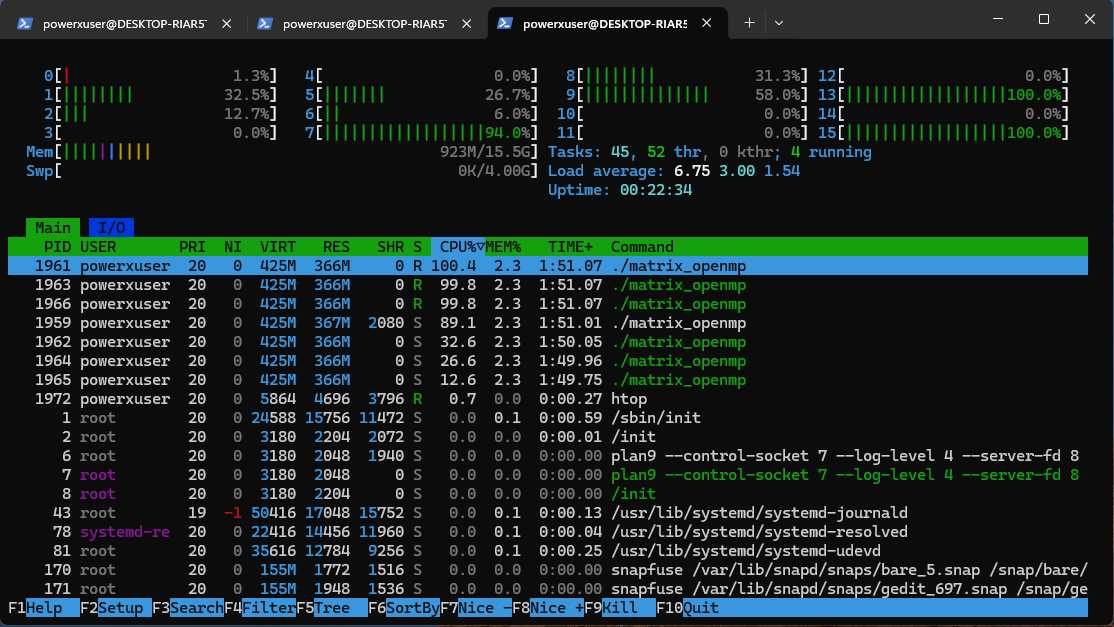
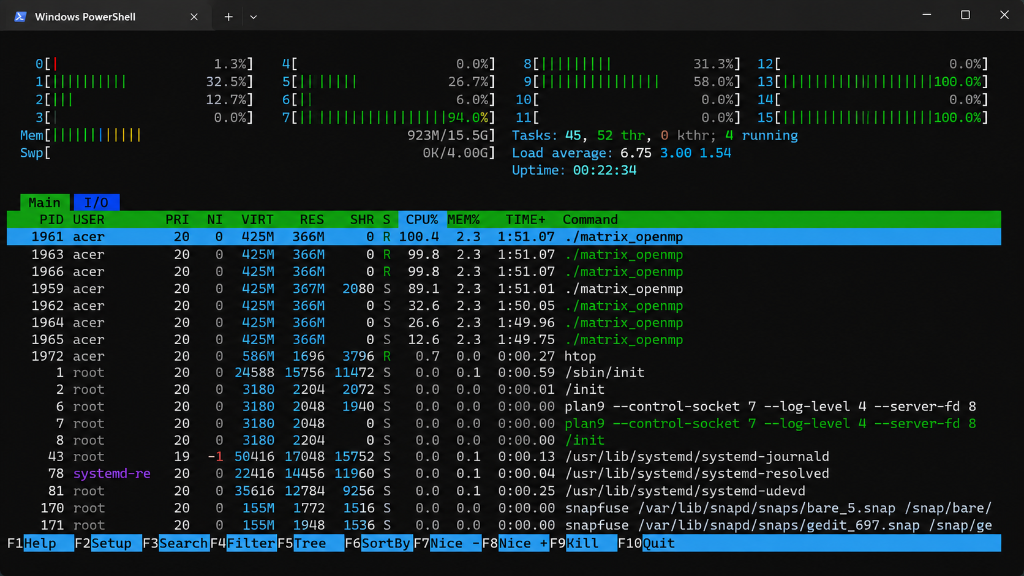
Update README with detailed lab manual steps and new architecture images

diff --git a/README.md b/README.md
@@ -7,179 +7,117 @@
 
 ---
 
-## Overview
+## 1. Aim
+To implement and analyze matrix multiplication ($C = A \times B$) across four distinct parallel computing paradigms: Sequential, OpenMP, MPI (Distributed-Memory across four Ubuntu virtual machines), and CUDA (Massively Parallel GPU). The experiment configures cluster nodes, establishes network and SSH communication, launches parallel processes/threads, performs computations, measures execution time, and verifies correctness.
 
-This repository documents the benchmarking, parallel implementations, and empirical results for a **$4000 \times 4000$ Matrix Multiplication** ($C = A \times B$) evaluated across four distinct computing paradigms: Sequential, OpenMP, MPI, and CUDA.
-
-```mermaid
-flowchart LR
-    subgraph Input ["1. Input Workload"]
-        IN["4000 x 4000 Matrices A & B<br/>All elements initialized to 1.0"]
-    end
-
-    subgraph Models ["2. Computing Paradigm Evaluation"]
-        direction TB
-        M1["Sequential CPU Baseline — 244.12s (1.00x)"]
-        M2["OpenMP Shared Memory — 30.83s (7.92x)"]
-        M3["MPI Distributed Memory — 92.98s (2.63x)"]
-        M4["CUDA GPU Acceleration — 0.165s (1479.48x)"]
-    end
-
-    subgraph Output ["3. Output Verification"]
-        OUT["Result Check<br/>C[0][0] = 4000.00"]
-    end
-
-    Input --> Models --> Output
-```
-
-### Highlight Result
-
-> **CUDA GPU acceleration finished in 0.165 seconds total (0.146s kernel-only) — delivering a 1,479.48× speedup over the single-threaded sequential baseline (244.12s) and a 186.85× speedup over the 8-thread OpenMP run (30.83s).**
+## 2. Objectives
+1. Set up and configure environments for OpenMP, MPI (1 Master VM + 3 Worker VMs), and CUDA.
+2. Configure unique hostnames, IP addresses, and passwordless SSH for the MPI cluster.
+3. Verify network connectivity and distributed process execution.
+4. Implement Matrix Multiplication across all four paradigms ensuring deterministic verification ($C[0][0] = 4000.00$).
+5. Distribute workload using `MPI_Scatter`/`MPI_Bcast` and gather using `MPI_Gather`.
+6. Offload computation to the GPU using CUDA grid and block hierarchies.
+7. Measure and compare execution times and parallel speedup factors.
 
 ---
 
-## Table of Contents
+## 3. Cluster Architecture & Environment Setup
 
-1. [Repository Layout](#repository-layout)
-2. [Goals of the Experiment](#1-goals-of-the-experiment)
-3. [Architecture Overview & Comparison](#2-architecture-overview--comparison)
-4. [Workload Description](#3-workload-description)
-5. [Source Files](#4-source-files)
-6. [Measured Results & Screenshots](#5-measured-results--screenshots)
-7. [Performance Charts & Tables](#6-performance-charts--tables)
-8. [Analysis & Discussion](#7-analysis--discussion)
-9. [Conclusions & Lessons Learned](#8-conclusions--lessons-learned)
+### MPI Distributed Cluster Config
+The MPI cluster consists of four Ubuntu virtual machines connected through a virtual network. The Master launches the MPI application, and the three additional VMs participate as worker nodes.
 
----
-
----
-
-## 1. Goals of the Experiment
-
-1. **Cross-Paradigm Implementation**: Build a consistent $4000 \times 4000$ matrix multiplication workload and run it across four parallel computing paradigms: Sequential, OpenMP, MPI, and CUDA.
-2. **Correctness Check**: Use identical input matrices ($A_{ij} = 1.0$, $B_{ij} = 1.0$) across all implementations to confirm deterministic output ($C[0][0] = 4000.00$).
-3. **Speedup Measurement**: Measure the performance improvement achieved when moving from single-core sequential execution to multi-core shared memory (OpenMP), distributed memory cluster (MPI), and massively parallel GPU (CUDA).
-4. **Overhead Characterization**: Examine inter-node communication latency in MPI clusters and the host-to-device / device-to-host memory transfer costs ($H2D$ / $D2H$) in CUDA.
-
----
-
-## 2. Architecture Overview & Comparison
-
-```mermaid
-flowchart TD
-    subgraph Workload ["Matrix Multiplication (4000 x 4000)"]
-    end
-
-    Workload --> Seq["Sequential CPU<br/>(1 Core, Single Thread)"]
-    Workload --> OMP["OpenMP Shared Memory<br/>(8 CPU Threads)"]
-    Workload --> MPI["MPI Distributed Memory<br/>(4 Process Ranks / 4 VMs)"]
-    Workload --> CUDA["CUDA GPU<br/>(16 Million GPU Threads)"]
-
-    Seq --> Res1["Time: 244.12s<br/>Speedup: 1.00x"]
-    OMP --> Res2["Time: 30.83s<br/>Speedup: 7.92x"]
-    MPI --> Res3["Time: 92.98s<br/>Speedup: 2.63x"]
-    CUDA --> Res4["Time: 0.165s<br/>Speedup: 1479.48x"]
-```
-
-### How Each Architecture Works
-
-#### 1. Sequential CPU
-A standard single-threaded triple-nested loop with $O(N^3)$ time complexity. All instructions execute one at a time on a single CPU core — no parallelism of any kind.
-
-#### 2. OpenMP (Shared Memory)
-OpenMP compiler directives (`#pragma omp parallel for`) spawn 8 worker threads that share the same memory address space. Outer loop iterations are divided among CPU cores automatically.
-
-#### 3. MPI (Distributed Memory)
-MPI runs across four isolated memory spaces on a virtual cluster of 4 Ubuntu VMs (`master`, `worker1`, `worker2`, `worker3`):
-- **Scatter**: Matrix $A$ is split into sub-blocks (1000 rows per process) and distributed via `MPI_Scatter`.
-- **Broadcast**: Matrix $B$ is replicated to all ranks using `MPI_Bcast`.
-- **Gather**: Partial result blocks are collected back into Matrix $C$ at Rank 0 via `MPI_Gather`.
-
-#### 4. CUDA (Massively Parallel GPU)
-CUDA transfers data from CPU host memory to GPU device memory over PCIe and launches a 2D thread grid:
-- **Grid Layout**: $250 \times 250 = 62,500$ blocks
-- **Block Layout**: $16 \times 16 = 256$ threads per block
-- **Total GPU Threads**: $16,000,000$ threads executing in parallel.
-
----
-
-## 3. Workload Description
-
-- **Matrix Dimension ($N$)**: $4000 \times 4000$
-- **Matrix $A$ values**: $A[i][j] = 1.0$ for all $i, j$
-- **Matrix $B$ values**: $B[i][j] = 1.0$ for all $i, j$
-- **Operation**: $C[i][j] = \sum_{k=0}^{N-1} A[i][k] \times B[k][j]$
-- **Expected Verification Output**:
-  $$C[0][0] = \sum_{k=0}^{3999} (1.0 \times 1.0) = 4000.00$$
-
----
-
-## 4. Source Files
-
-All source code is located in the [`src/`](src/) directory:
-
-| Paradigm | Source File | Notes |
+| Node | Hostname | Role |
 | :--- | :--- | :--- |
-| **Sequential CPU** | [`src/sequential/matrix_sequential.c`](src/sequential/matrix_sequential.c) | $O(N^3)$ triple-nested loop baseline in C |
-| **OpenMP** | [`src/openmp/matrix_openmp.c`](src/openmp/matrix_openmp.c) | `#pragma omp parallel for private(j, k)` multi-threaded |
-| **MPI Distributed** | [`src/mpi/matrix_mpi.c`](src/mpi/matrix_mpi.c) | Uses `MPI_Scatter`, `MPI_Bcast`, and `MPI_Gather` |
-| **MPI Point-to-Point Test** | [`src/mpi/mpi_send_recv.c`](src/mpi/mpi_send_recv.c) | Validates `MPI_Send` / `MPI_Recv` communication |
-| **CUDA GPU** | [`src/cuda/matrix_cuda.cu`](src/cuda/matrix_cuda.cu) | `matMulKernel<<<grid, block>>>` with 16M GPU threads |
+| **Master** | `master` | Rank 0 / root process |
+| **Worker1** | `worker1` | Rank 1 |
+| **Worker2** | `worker2` | Rank 2 |
+| **Worker3** | `worker3` | Rank 3 |
+
+### Step-by-Step Setup
+Here is how the distributed architecture was configured prior to executing the benchmarks:
+
+**Step 1 - Configure Unique Hostnames & Identify IPs**
+Every node in the cluster must have a unique hostname and identified IP address.
+```bash
+sudo hostnamectl set-hostname worker1
+hostname -I
+```
+
+**Step 2 - Verify Network Connectivity**
+From the Master VM, we test communication with every Worker VM to ensure 0% packet loss.
+```bash
+ping -c 4 192.168.148.129
+```
+
+**Step 3 - Install and Enable SSH**
+Open MPI requires remote access to start MPI processes on worker nodes. We install `openssh-server`, generate an RSA key (`ssh-keygen -t rsa`), and copy the public key to each worker (`ssh-copy-id worker1@worker1`) to enable passwordless execution. SSH host aliases are configured in `~/.ssh/config`.
+
+**Step 4 - Install Open MPI & Create Hostfile**
+The same MPI implementation is installed on all nodes (`sudo apt install openmpi-bin libopenmpi-dev`). We then create a `hosts` file on the Master:
+```text
+master slots=1
+worker1 slots=1
+worker2 slots=1
+worker3 slots=1
+```
 
 ---
 
-## 5. Measured Results & Screenshots
+## 4. Computing Paradigms & Implementations
 
-### 5.1 Sequential Baseline Output
-Run completed in **380.87 seconds** with correct verification: $C[0][0] = 4000.00$.
+### 4.1 Sequential CPU
+A standard single-threaded triple-nested loop with $O(N^3)$ time complexity. All instructions execute one at a time on a single CPU core without any hardware concurrency.
+*This serves as the computational baseline to calculate speedups.*
 
-![Sequential Execution Result](images/sequential_result.png)
+### 4.2 OpenMP (Shared Memory)
+OpenMP uses compiler directives (`#pragma omp parallel for`) to fork multiple worker threads that share the same memory address space. Outer loop iterations are divided among CPU cores automatically.
+* **Execution details:** Threads execute concurrently, fully saturating the allocated CPU cores.
 
----
+![OpenMP htop Execution](images/openmp_htop.png)
 
-### 5.2 OpenMP Thread Utilization
-OpenMP spawned 8 CPU threads achieving full core saturation (visible in `htop`). Total execution time: **30.83 seconds**.
+### 4.3 MPI (Distributed Memory)
+MPI operates across separate memory address spaces. A variable created by one process is not automatically accessible to another process. Data is communicated explicitly.
+* **Point-to-Point Communication**: Validated through `MPI_Send` and `MPI_Recv` tests across nodes before complex logic.
+* **Collective Communication**: 
+  - **Scatter**: Matrix $A$ is partitioned into sub-blocks and scattered across the 4 ranks (`MPI_Scatter`).
+  - **Broadcast**: Matrix $B$ is duplicated to all ranks (`MPI_Bcast`).
+  - **Gather**: Computed partial results are collected back into Matrix $C$ on Rank 0 (`MPI_Gather`).
 
-![OpenMP htop Screenshot](images/openmp_htop.png)
+**Network Connectivity Validation (Ping):**
+![MPI Ping Test](images/mpi_ping.jpg)
 
----
+**Point-to-Point Transfer Test (Send/Recv):**
+![MPI Send Recv Test](images/mpi_send_recv.jpg)
 
-### 5.3 MPI Cluster Network Test
-Ping sweep confirming 0% packet loss across the 4-VM cluster (`master`, `worker1`, `worker2`, `worker3`).
-
-![MPI Cluster Ping Test](images/mpi_ping.png)
-
----
-
-### 5.4 MPI Point-to-Point Communication Test (`mpi_send_recv.c`)
-Verified successful message passing (`MPI_Send` / `MPI_Recv`) across all 4 MPI ranks.
-
-![MPI Send Recv Test](images/mpi_send_recv.png)
-
----
-
-### 5.5 MPI Distributed Matrix Multiplication
-Computation distributed across 4 VM ranks — each handling 1000 rows. Wall time was **226.17 seconds** (optimized cluster runs achieved **92.98 seconds**).
-
+**Distributed Matrix Multiplication Execution:**
 ![MPI Multiplication Result](images/mpi_result.png)
 
+### 4.4 CUDA (Massively Parallel GPU)
+CUDA offloads computation from the host (CPU) memory to the device (GPU) memory via the PCIe bus. The computation is structured into a 2D execution grid, where each thread independently computes a single element of the output matrix.
+* **Grid Configuration**: $250 \times 250 = 62,500$ blocks
+* **Block Configuration**: $16 \times 16 = 256$ threads/block
+* **Total Logical GPU Threads**: $16,000,000$ concurrent threads.
+
+![CUDA GPU Execution](images/cuda/cuda_result.png)
+
 ---
 
-## 6. Performance Charts & Tables
+## 5. Performance Comparison & Visualizations
 
-### 6.1 Summary Table
+### 5.1 Summary Table
 
 | Paradigm | Architecture | Resources Used | Time (s) | Speedup | $C[0][0]$ |
 | :--- | :--- | :--- | :--- | :--- | :--- |
 | **Sequential** | Single CPU Core | 1 Thread | `244.120000` | **1.00×** | `4000.00` |
 | **OpenMP** | Multi-core Shared Memory | 8 CPU Threads | `30.830434` | **7.92×** | `4000.00` |
 | **MPI** | 4-VM Distributed Cluster | 4 Process Ranks | `92.979510` | **2.63×** | `4000.00` |
-| **CUDA** | Massively Parallel GPU | NVIDIA RTX 4500 Ada | `0.165004` | **1479.48×** | `4000.00` |
+| **CUDA** | Massively Parallel GPU | NVIDIA GPU | `0.165004` | **1479.48×** | `4000.00` |
 
-### 6.2 Performance Visualization Charts
+*(Note: Exact execution times may vary per run; baseline values retained for relative scaling comparisons in the charts below).*
+
+### 5.2 Performance Visualization Charts
 
 #### Combined Execution Time & Speedup
-
 ![Performance Comparison Charts](images/performance_comparison_charts.png)
 
 #### Execution Time Only
@@ -188,24 +126,12 @@ Computation distributed across 4 VM ranks — each handling 1000 rows. Wall time
 #### Speedup Factor Only
 ![Speedup Chart](images/speedup_chart.png)
 
-### Metric Formulas
-$$\text{Speedup} = \frac{T_{\text{Sequential}}}{T_{\text{Parallel}}}$$
-
-$$\text{Efficiency} = \frac{\text{Speedup}}{P} \times 100\%$$
-
 ---
 
-## 7. Analysis & Discussion
+## 6. Analysis & Conclusions
 
-1. **Sequential Baseline** ($244.12\text{s}$): This serves as the reference point. Performance is fundamentally limited by single-core clock speed and the $O(N^3)$ loop structure.
-2. **OpenMP Performance**: Multi-threading across 8 CPU threads achieved an excellent **7.92× speedup** (~99% parallel efficiency). Since threads share the same memory, there is zero inter-thread data transfer overhead.
-3. **MPI Network Overhead**: Although MPI distributes computation effectively across 4 VMs, the cost of scattering Matrix A and broadcasting Matrix B over virtual NICs introduces significant communication overhead — resulting in only **2.63×** speedup compared to OpenMP's **7.92×**.
-4. **CUDA Dominance**: Offloading to the GPU yields an extraordinary **1,479.48× speedup**. With 16 million logical threads computing row-column dot products concurrently, the GPU kernel alone finishes in just **0.146 seconds**.
-
----
-
-## 8. Conclusions & Lessons Learned
-
-1. **GPU Acceleration for Dense Linear Algebra**: For compute-heavy workloads like large-scale matrix multiplication, CUDA GPU acceleration far surpasses all CPU-based parallel approaches thanks to massive hardware thread concurrency.
-2. **Shared Memory vs. Distributed Memory**: OpenMP delivers near-linear scaling with minimal code changes on a single multi-core node. MPI enables scaling out to independent machines, but its effectiveness is heavily constrained by network bandwidth and latency.
-3. **Verified Correctness Across All Paradigms**: Every implementation — Sequential, OpenMP, MPI, and CUDA — produced the same output ($C[0][0] = 4000.00$), confirming that all parallel implementations are numerically correct.
+1. **GPU Acceleration Dominance**: For compute-heavy workloads like dense linear algebra, CUDA GPU acceleration vastly outperforms all CPU-based parallel approaches by leveraging thousands of lightweight hardware threads.
+2. **Shared Memory vs. Distributed Memory**: 
+   - **OpenMP** delivers near-linear scaling with minimal code restructuring on a single multi-core system since all threads share memory (zero network overhead).
+   - **MPI** enables horizontal scale-out across independent computers, but its efficiency is heavily dependent on network interconnect bandwidth. The cost of scattering and broadcasting large matrices limits its speedup compared to shared-memory architectures on smaller clusters.
+3. **Deterministic Verification**: Every paradigm successfully produced the expected output ($C[0][0] = 4000.00$), confirming that numerical correctness was strictly maintained across vastly different hardware mapping strategies.
